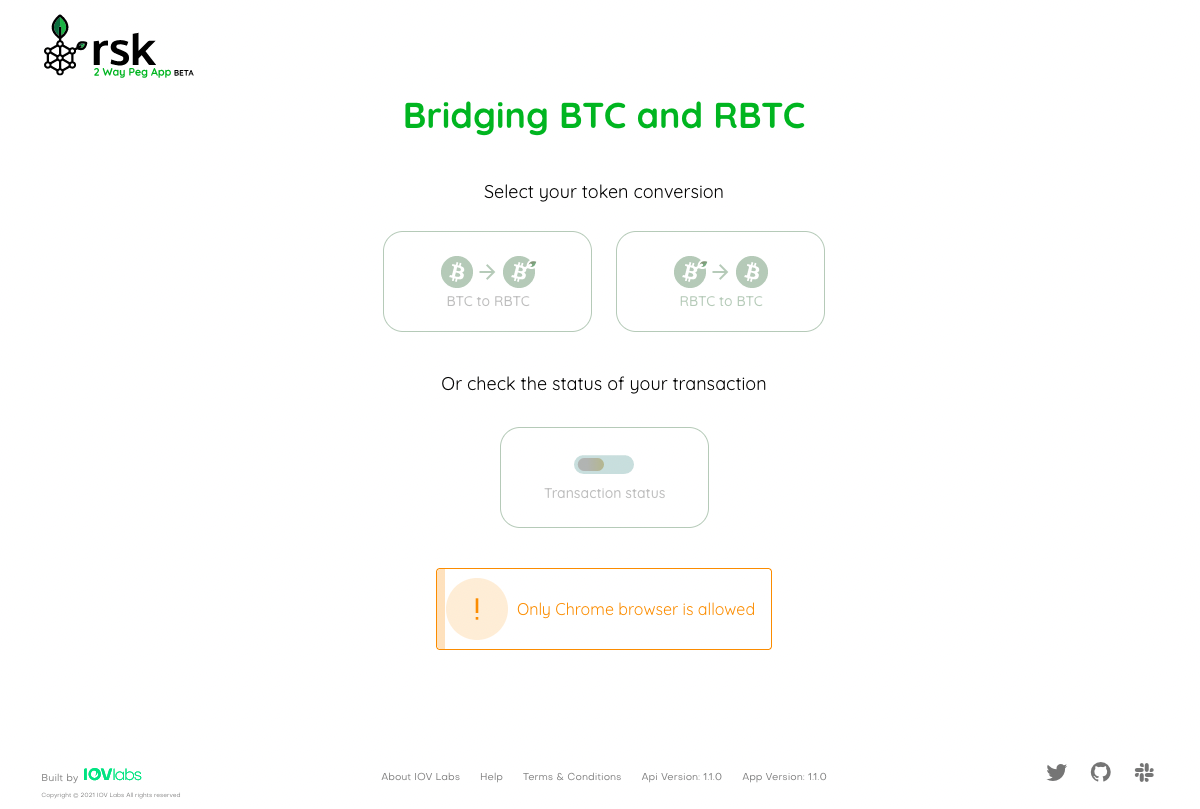
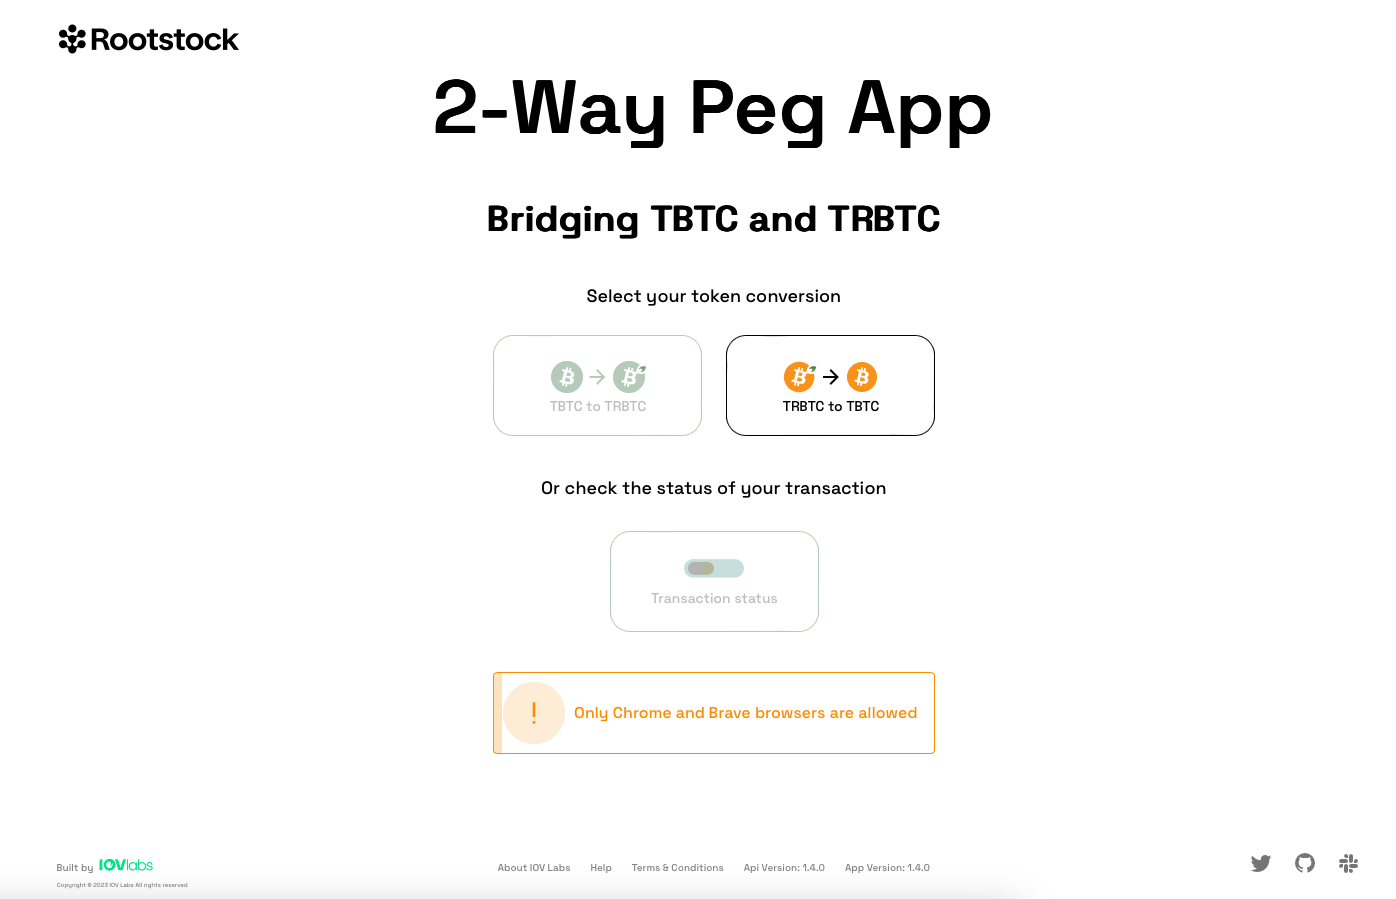
updating old images

diff --git a/guides/two-way-peg-app/getting-started.md b/guides/two-way-peg-app/getting-started.md
@@ -48,7 +48,7 @@ The following are the setup requirements to get started with the 2 way peg app.
 - [Google Chrome](https://www.google.com/chrome/)
 - [Brave Browser](https://brave.com/)
 
-> Note: The current v1.1.0 of the 2 way peg app is currently not operational on mobile devices.
+> Note: The current v1.4.0 of the 2 way peg app is currently not operational on mobile devices.
 
 ![Supported Browser](/assets/img/guides/two-way-peg-app/supported-broswer.png)
 
